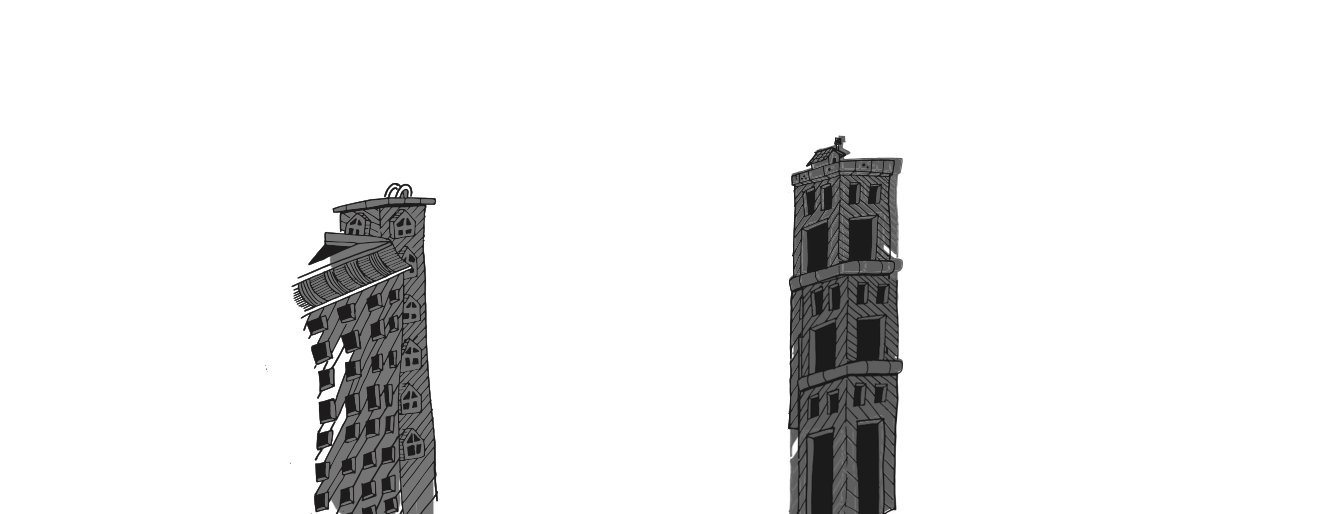
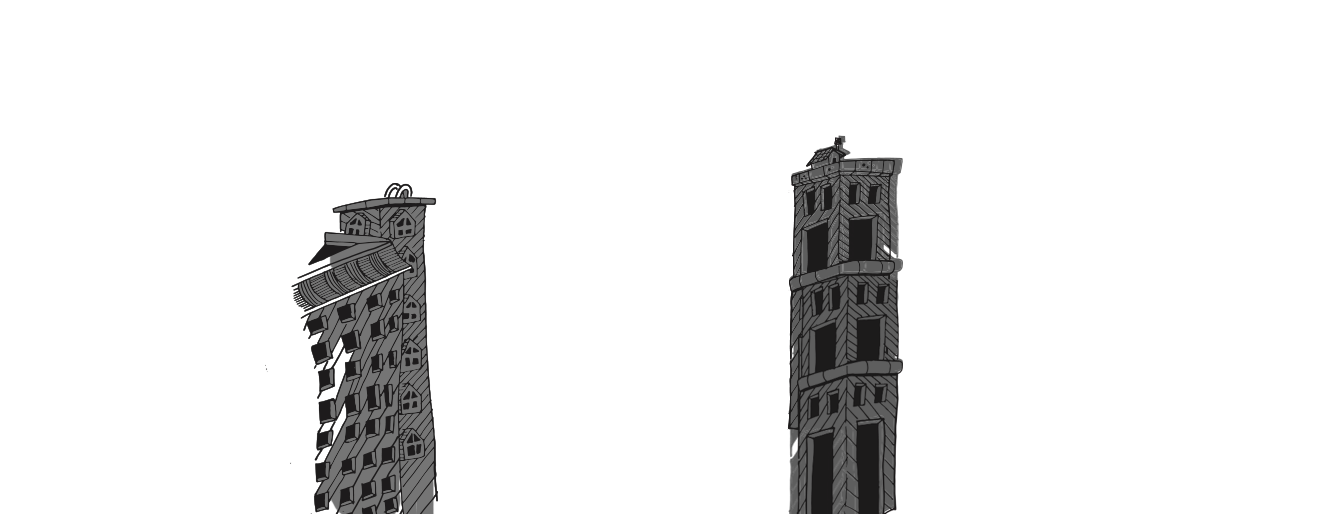
doing well

Changed region(s): [[0.2153, 0.3424, 0.3383, 1.0], [0.5844, 0.249, 0.6767, 1.0]]

diff --git a/views/content/home.html b/views/content/home.html
@@ -44,7 +44,10 @@
 			<img class="full-image" src="img/house2.png">
 		</div>
 		<div class="building2" ng-scroll-animation-from="{'y':400, 'ease': Linear.easeOut}" ng-scroll-animation-to="{'y': 230, 'ease': Linear.ease}" ng-scroll-duration="900" ng-scroll-offset="200">
-			<img class="full-image" src="img/house3.png">
+			<img class="full-image" src="img/house4.png">
+		</div>
+		<div class="building3" ng-scroll-animation-from="{'y':400, 'ease': Linear.easeOut}" ng-scroll-animation-to="{'y': 230, 'ease': Linear.ease}" ng-scroll-duration="900" ng-scroll-offset="200">
+			<img class="full-image" src="img/house31.png">
 		</div>
 	</div>
 	<div class="coutch" ng-scroll-animation-from="{'y': -4500, 'ease': Linear.easeOut}" ng-scroll-animation-to="{'y': 0, 'ease': Linear.ease}" ng-scroll-duration="900" ng-scroll-offset="200">
@@ -54,7 +57,7 @@
 	</div>
 </section>
 
-<section class="section3" style="margin-top: 112px;">
+<section class="section3" style="margin-top: 107px;">
 	<div class="road-bg onroad">
 		<img class="full-image" src="img/section2/after-road.jpg" ng-scroll-animation-from="{'y':0, 'ease': Linear.easeOut}" ng-scroll-animation-to="{'y': 0, 'ease': Linear.ease}" ng-scroll-duration="300" ng-scroll-offset="1800" pin=".road-sofa" />
 		<div class="taxi taxi1">
@@ -85,8 +88,8 @@
 				</li>
 			</ul>
 		</div>
-		<div class="taxi taxi2" ng-scroll-animation-from="{'x':300, 'ease': Linear.easeOut}" ng-scroll-duration="250" ng-scroll-animation-to="{'x': -370, 'ease': Linear.easeOut}" ng-scroll-offset="1400">
-			<div class="taxi taxi2" ng-scroll-animation-from="{'x':-375, 'ease': Linear.SlowMo}" ng-scroll-duration="100" ng-scroll-animation-to="{'x': -375, 'ease': Linear.SlowMo,'scale':0,'opacity':0,'rotation':-120}" ng-scroll-offset="1650">
+		<div class="taxi taxi2" ng-scroll-animation-from="{'x':300, 'ease': Linear.easeOut}" ng-scroll-duration="300" ng-scroll-animation-to="{'x': -450, 'ease': Linear.easeOut}" ng-scroll-offset="1450">
+			<div class="taxi taxi2" ng-scroll-animation-from="{'x':-450, 'ease': Linear.SlowMo}" ng-scroll-duration="100" ng-scroll-animation-to="{'x': -450, 'ease': Linear.SlowMo,'scale':0,'opacity':0,'rotation':-120}" ng-scroll-offset="1650">
 				<figure>
 					<img src="img/taxi.png">
 				</figure>
@@ -99,9 +102,72 @@
 		</div>
 	</div>
 </section>
-<section class="section4" style="z-index:1;position:relative;">
+<section class="section4">
+	<div class="letters-bg">
+		<div class="hands">
+			<figure class="hands-main">
+				<img src="img/hands.png">
+			</figure>
+			<figure class="hand-outside">
+				<img src="img/hand-outside.png">
+			</figure>
+			<figure class="hand-cap">
+				<img src="img/hand-cap.png">
+			</figure>
+		</div>
+		<div class="">
+			<div class="type-writer">
+				<div class="yellow-paper">
+					<figure>
+						<img src="img/paper-yellow.png">
+					</figure>
+				</div>
+				<div class="cont-center">
+					<h4>websites</h4>
+					<p>We love making websites. We love making websites .We love making Websites. We love making websites. We love making websites. We love making websites .We love making Websites. We love making websites. We love making websites. We love making websites .We love making Websites. We love making websites.................... websites. </p>
+					<p class="text-center">Can't you tell?</p>
+					<div>
+						<button class="btn btn-ouline" ng-click="showWebsite();">Click Here</button>
+					</div>
+				</div>
+				<div class="rikshaw" ng-scroll-animation-from="{'x':0, 'ease': Linear.easeOut}" ng-scroll-duration="300" ng-scroll-animation-to="{'x': 500, 'ease': Linear.ease}" ng-scroll-offset="2300">
+					<figure>
+						<img src="img/rikshaw.png" class="full-image">
+					</figure>
+				</div>
+				<div class="cat" ng-scroll-animation-from="{'x':0, 'ease': Linear.easeOut}" ng-scroll-duration="200" ng-scroll-animation-to="{'x': -140,'y':0, 'ease': Linear.easeNone}" ng-scroll-offset="2600">
+					<figure>
+						<img src="img/cat.png" class="full-image">
+					</figure>
+				</div>
+
+				<div class="ios">
+					<h3> <span typed-js></span></h3>
+				</div>
+				<div class="app-main">
+					<div class="apps">
+						<div class="typewriter">
+							<figure>
+								<img src="img/typewriter.png">
+							</figure>
+						</div>
+						<div class="cont-right">
+							<h4>apps</h4>
+							<p>
+								Apptually speaking, our idea of a love triangle includes UI and U(e)X.
+							</p>
+							<div class="text-center">
+								<button class="btn btn-ouline btn-white" ng-click="showApp();">Click Here</button>
+							</div>
+						</div>
+					</div>
+				</div>
+			</div>
+		</div>
+</section>
+<section class="section5" style="z-index:1;position:relative;">
 	<div class="black-white-lines">
-		<div class="lines" ng-scroll-animation-from="{'y':0, 'ease': Linear.ease}" ng-scroll-duration="1200" ng-scroll-animation-to="{'y': 0, 'ease': Linear.ease}" ng-scroll-offset="2200">
+		<div class="lines" ng-scroll-animation-from="{'y':0, 'ease': Linear.ease}" ng-scroll-duration="1200" ng-scroll-animation-to="{'y': 0, 'ease': Linear.ease}" ng-scroll-offset="3200">
 			<figure>
 				<img src="img/section5/lines-top.jpg" class="full-image">
 			</figure>
@@ -117,7 +183,7 @@
 			</figure>
 		</div>
 		<div class="batman-animation">
-			<div class="batman" ng-scroll-animation-from="{'x':0, 'ease': Linear.ease}" ng-scroll-duration="200" ng-scroll-animation-to="{'x': -804,'y':-132, 'ease': Linear.ease}" ng-scroll-offset="2350">
+			<div class="batman" ng-scroll-animation-from="{'x':0, 'ease': Linear.ease}" ng-scroll-duration="450" ng-scroll-animation-to="{'x': -804,'y':-71, 'ease': Linear.ease}" ng-scroll-offset="3750">
 				<figure>
 					<img src="img/batman.png" class="">
 				</figure>
@@ -125,22 +191,22 @@
 		</div>
 	</div>
 </section>
-<section class="black-bg section5">
+<section class="black-bg section6">
 	<figure>
 		<img src="img/section5/lines-bottom.jpg" class="full-image line-pin">
 	</figure>
 	<div class="blubs">
-		<div class="bulb-1" ng-scroll-animation-from="{'y':-500, 'ease': Linear.ease}" ng-scroll-duration="180" ng-scroll-animation-to="{'y':0, 'ease': Linear.ease}" ng-scroll-offset="3300">
+		<div class="bulb-1" ng-scroll-animation-from="{'y':-500, 'ease': Linear.ease}" ng-scroll-duration="220" ng-scroll-animation-to="{'y':0, 'ease': Linear.ease}" ng-scroll-offset="4650">
 			<figure>
 				<img src="img/marketing/bulbs-all.png" class="full-image">
 			</figure>
 		</div>
-		<div class="bulb-2" ng-scroll-animation-from="{'y':-1000, 'ease': Linear.ease}" ng-scroll-duration="380" ng-scroll-animation-to="{'y':0, 'ease': Linear.ease}" ng-scroll-offset="3700">
+		<div class="bulb-2" ng-scroll-animation-from="{'y':-1000, 'ease': Linear.ease}" ng-scroll-duration="380" ng-scroll-animation-to="{'y':0, 'ease': Linear.ease}" ng-scroll-offset="4900">
 			<figure>
 				<img src="img/marketing/bulbon.png" class="full-image">
 			</figure>
 		</div>
-		<div class="bulb-socialss" style="position:absolute;top:0;width: 100%;" ng-scroll-animation-from="{'y':-800, 'ease': Linear.ease}" ng-scroll-duration="280" ng-scroll-animation-to="{'y':0, 'ease': Linear.ease}" ng-scroll-offset="3500">
+		<div class="bulb-socialss" style="position:absolute;top:0;width: 100%;" ng-scroll-animation-from="{'y':-800, 'ease': Linear.ease}" ng-scroll-duration="280" ng-scroll-animation-to="{'y':0, 'ease': Linear.ease}" ng-scroll-offset="4800">
 			<div class="bulb-facebook">
 				<img src="img/marketing/FACEBOOK-BULBS.png" class="full-image">
 			</div>
@@ -172,7 +238,7 @@
 		</div>
 	</div>
 </section>
-<section>
+<section class="section7">
 	<div class="musical">
 		<div class="cont-center">
 			<h4>Videos</h4>
@@ -182,7 +248,7 @@
 				<button class="btn btn-ouline" ng-click="showVideos();">Click Here</button>
 			</div>
 		</div>
-		<div class="text-center yellow-lights" ng-scroll-animation-from="{'y':-300, 'ease': Linear.ease,'scale':0}" ng-scroll-duration="500" ng-scroll-animation-to="{'y':0, 'ease': Linear.ease,'scale':1}" ng-scroll-offset="4500">
+		<div class="text-center yellow-lights" ng-scroll-animation-from="{'y':-840,x:-180, 'ease': Linear.ease,'scale':0}" ng-scroll-duration="1000" ng-scroll-animation-to="{'y':0,x:0, 'ease': Linear.ease,'scale':1}" ng-scroll-offset="5300">
 			<figure>
 				<img src="img/yellowlights.png">
 			</figure>
@@ -194,8 +260,52 @@
 		</div>
 		<div class="tvs">
 			<figure>
-				<img src="img/tvs1.png" alt="music" class="full-image">
+				<img src="img/section7/Tv-Left.gif" alt="music" class="">
+				<img src="img/section7/Tv-Right.gif" alt="music" class="pull-right">
 			</figure>
+		</div>
+	</div>
+</section>
+<section class="section8">
+	<div class="contact black-bg">
+		<div class="hello">
+			<div class="ting-hello">
+					<img src="img/hello.png" class="full-image" alt="">
+					<img src="img/gif/phone.gif" class="ring" alt="">
+			</div>
+			<div class="link-ting">
+				<p>go back to <a href="#">ting.in</a></p>
+			</div>
+			<div class="address">
+				<ul>
+					<li>
+						<h4>Mumbai</h4>
+						<p>
+							1308 Panchratna Building,
+							<br> Opera House,
+							<br> Next to Roxy Cinema,
+							<br> Charni Road,
+							<br> Mumbai- 400 004
+						</p>
+						<p>
+							+91 98675 97223
+							<br> +91 98202 82644
+						</p>
+					</li>
+					<li>
+						<h4>Chennai</h4>
+						<p>
+							16, 3rd Main Road,
+							<br> Seethammal Colony,
+							<br> Alwarpet,
+							<br> Chennai 600 018.
+						</p>
+						<p>
+							+91 98404 88224
+						</p>
+					</li>
+				</ul>
+			</div>
 		</div>
 	</div>
 </section>

diff --git a/sass/main.scss b/sass/main.scss
@@ -247,6 +247,11 @@ figure {
 	.building {
 		position: absolute;
 		bottom: 40px;
+		z-index: -1;
+	}
+	.building3 {
+		position: absolute;
+		bottom: 40px;
 		z-index: 1;
 	}
 }
@@ -336,7 +341,7 @@ figure {
 	}
 	.type-writer {
 		position: relative;
-		width: 1200px;
+		width: 1250px;
 		margin: 0 auto;
 		.yellow-paper {
 			text-align: center;
@@ -377,7 +382,7 @@ figure {
 		}
 		.cat {
 			position: absolute;
-			top: 51%;
+			top: 51.5%;
 			right: 44%;
 			z-index: 2;
 			width: 8%;
@@ -435,7 +440,7 @@ figure {
 	.buregler1 {
 		position: absolute;
 		left: 10%;
-		bottom: 38%;
+		bottom: 30%;
 		width: 9%;
 		img {
 			width: 100%;
@@ -444,7 +449,7 @@ figure {
 	.buregler2 {
 		position: absolute;
 		left: 10%;
-		bottom: 40%;
+		bottom: 32%;
 		width: 30%;
 		img {
 			width: 100%;
@@ -455,7 +460,7 @@ figure {
 		.batman {
 			position: absolute;
 			right: 4%;
-			bottom: 15%;
+			bottom: 7%;
 			width: 53%;
 			img {
 				width: 100%;
@@ -608,7 +613,7 @@ figure {
 			margin-bottom: 15px;
 			img.ring {
 				position: absolute;
-				right: -23px;
+				right: -10px;
 				bottom: -15px;
 			}
 		}

diff --git a/sass/main/_animation.scss b/sass/main/_animation.scss
@@ -12,15 +12,15 @@
 	}
 }
 
-.onroad {
-	.taxi.taxi3 {
-		@include animation(taxi 15s linear 0s infinite);
-	}
-}
-
-.batman {
-	@include animation(translate-batman 15s linear 0s infinite);
-}
+//.onroad {
+//	.taxi.taxi3 {
+//		@include animation(taxi 15s linear 0s infinite);
+//	}
+//}
+//
+//.batman {
+//	@include animation(translate-batman 15s linear 0s infinite);
+//}
 
 @include keyframes (translate-rotate-bg) {
 	from {
